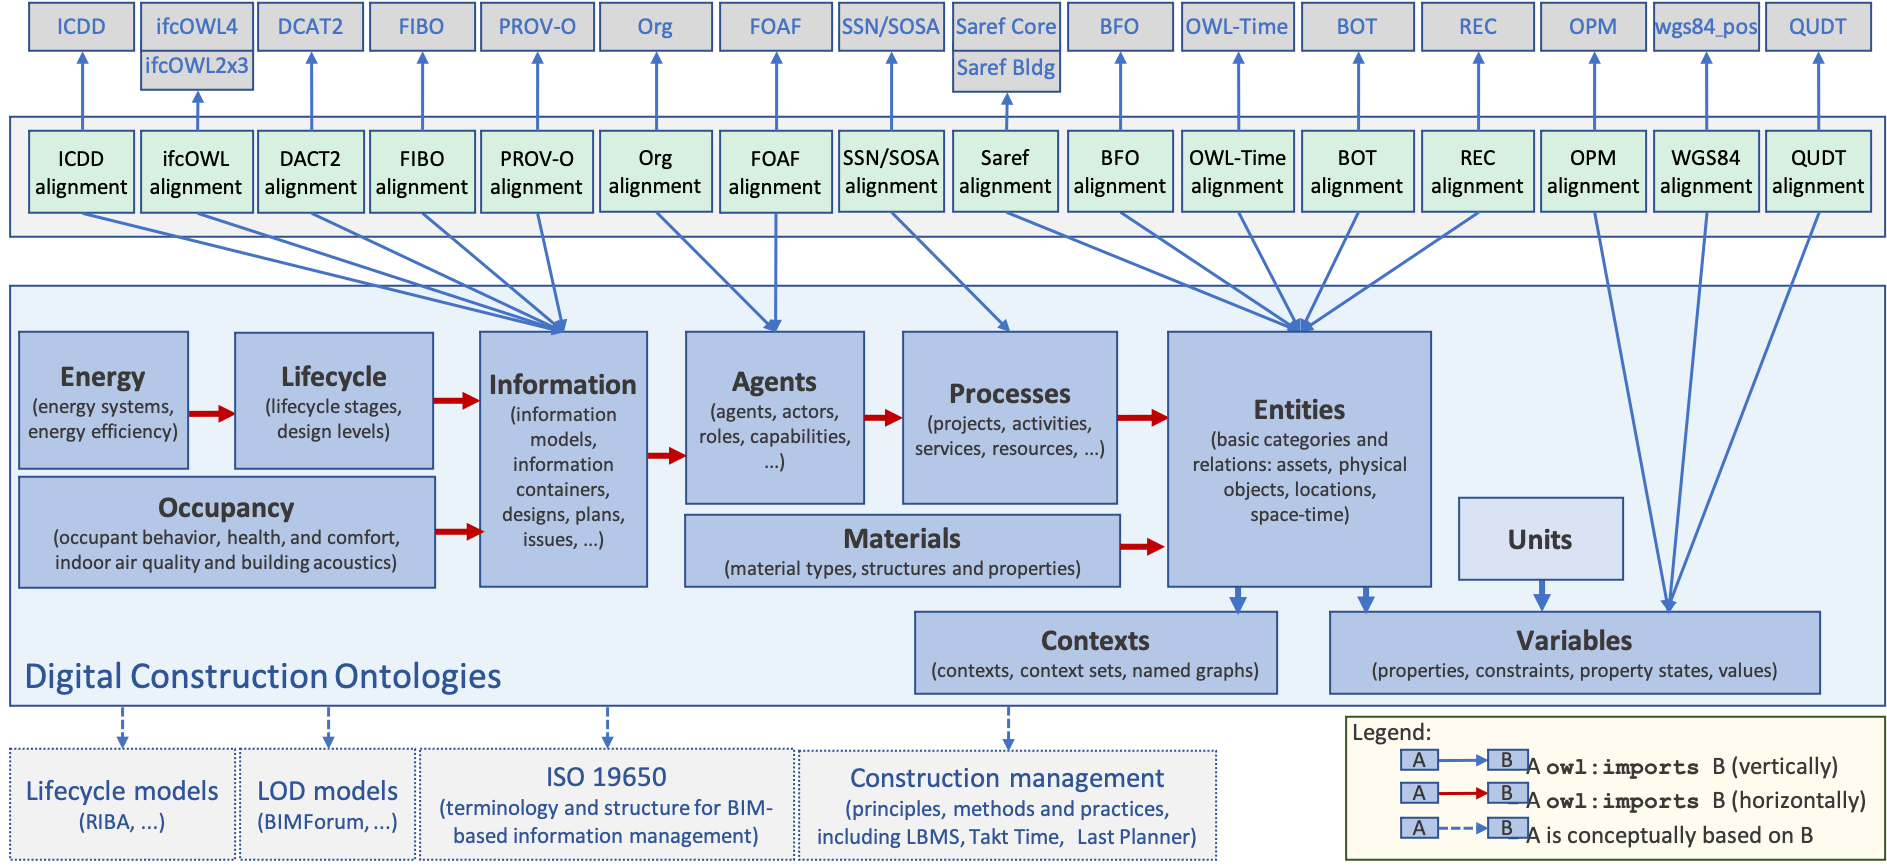
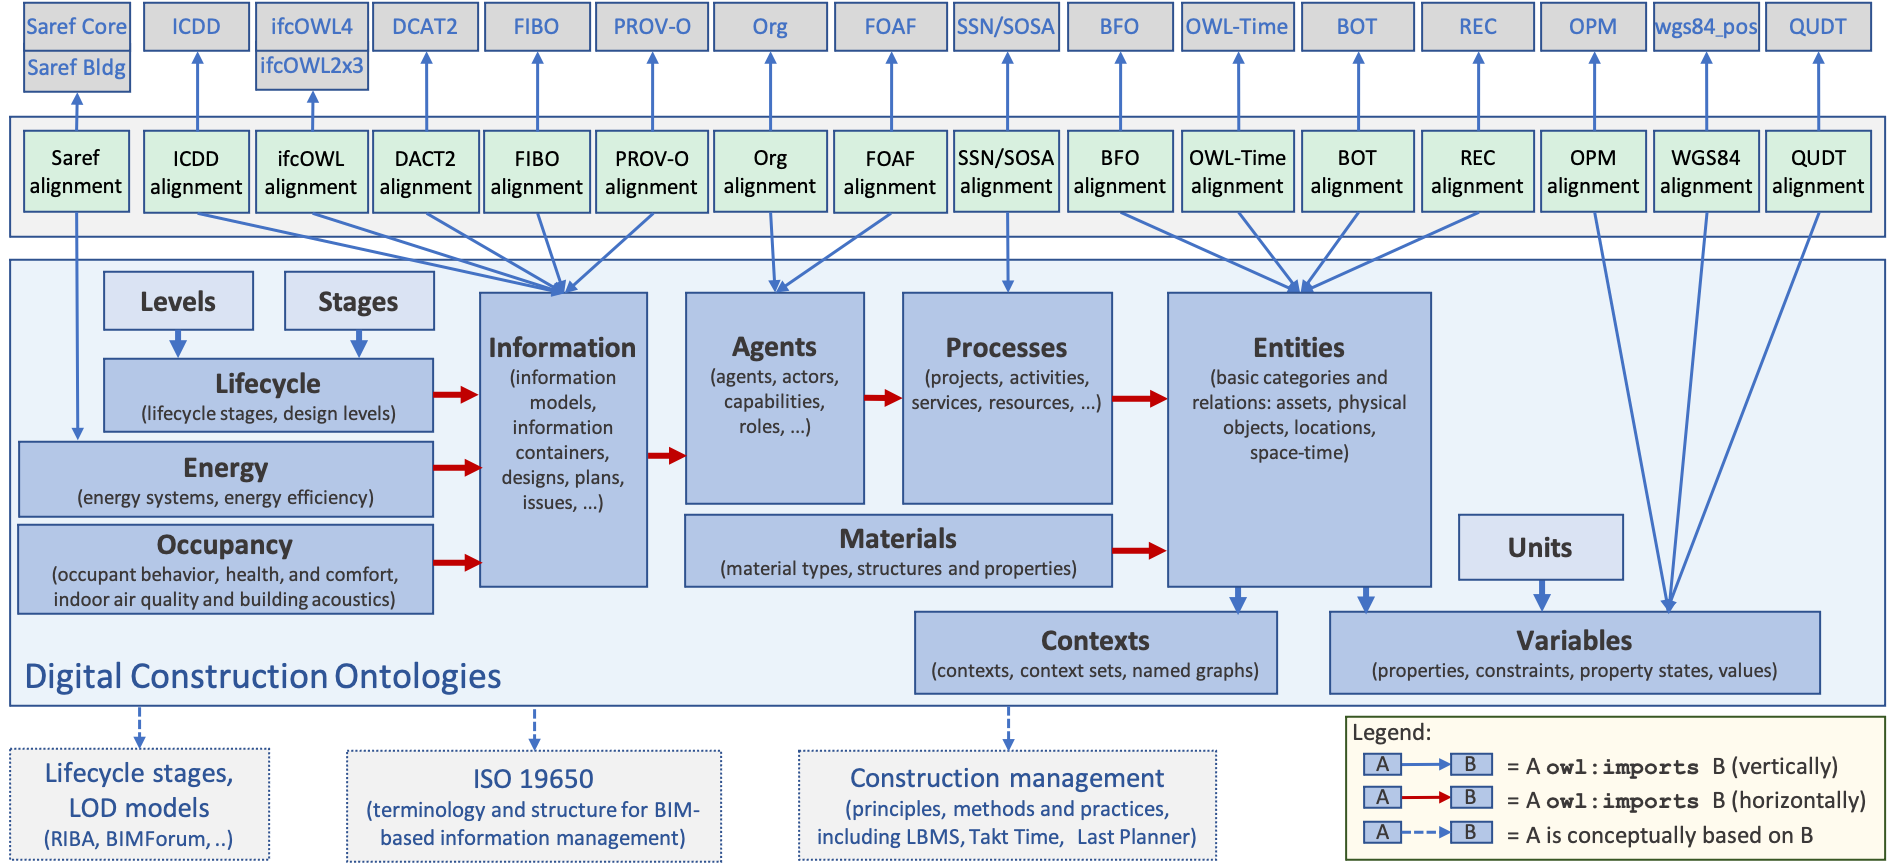
ICDD alignment with modified diagram

Changed region(s): [[0.0, 0.0, 1.0, 0.9977]]

diff --git a/v/0.5/index.html b/v/0.5/index.html
@@ -286,6 +286,13 @@ external ontologies. All references to external ontologies are in the alignment 
     <td><tt>ssn:<br/>sosa:</tt></td>
     <td>Sensor data and sensor systems</td></tr>
 
+    <tr><td><a href="https://w3id.org/digitalconstruction/0.5/Alignment/ICDD/icdd-dicon.ttl">Alignment/ICDD</a></td>
+    <td><a href="https://www.iso.org/standard/74389.html">ICDD</a></td>
+    <td><tt>https://standards.iso.org/iso/21597/-1/ed-1/en/Container#</tt></td>
+    <td><tt>ct:</tt></td>
+    <td>Information Container for Linked Document Delivery (ISO 21597-1)</td></tr>
+
+
     <tr><td><a href="https://w3id.org/digitalconstruction/0.5/Alignment/Saref/saref-dicon.ttl">Alignment/Saref</a></td>
     <td><a href="https://saref.etsi.org/core/v3.1.1/">Saref Core</a><br/>
     <a href="https://saref.etsi.org/saref4bldg/v1.1.2/">Saref4Bldg</a></td>
@@ -385,5 +392,5 @@ external ontologies. All references to external ontologies are in the alignment 
     
 <hr>
 <address></address>
-<!-- hhmts start -->Last modified: Mon Apr 26 22:36:17 EEST 2021 <!-- hhmts end -->
+<!-- hhmts start -->Last modified: Tue Apr 27 08:02:31 EEST 2021 <!-- hhmts end -->
 </body> </html>
